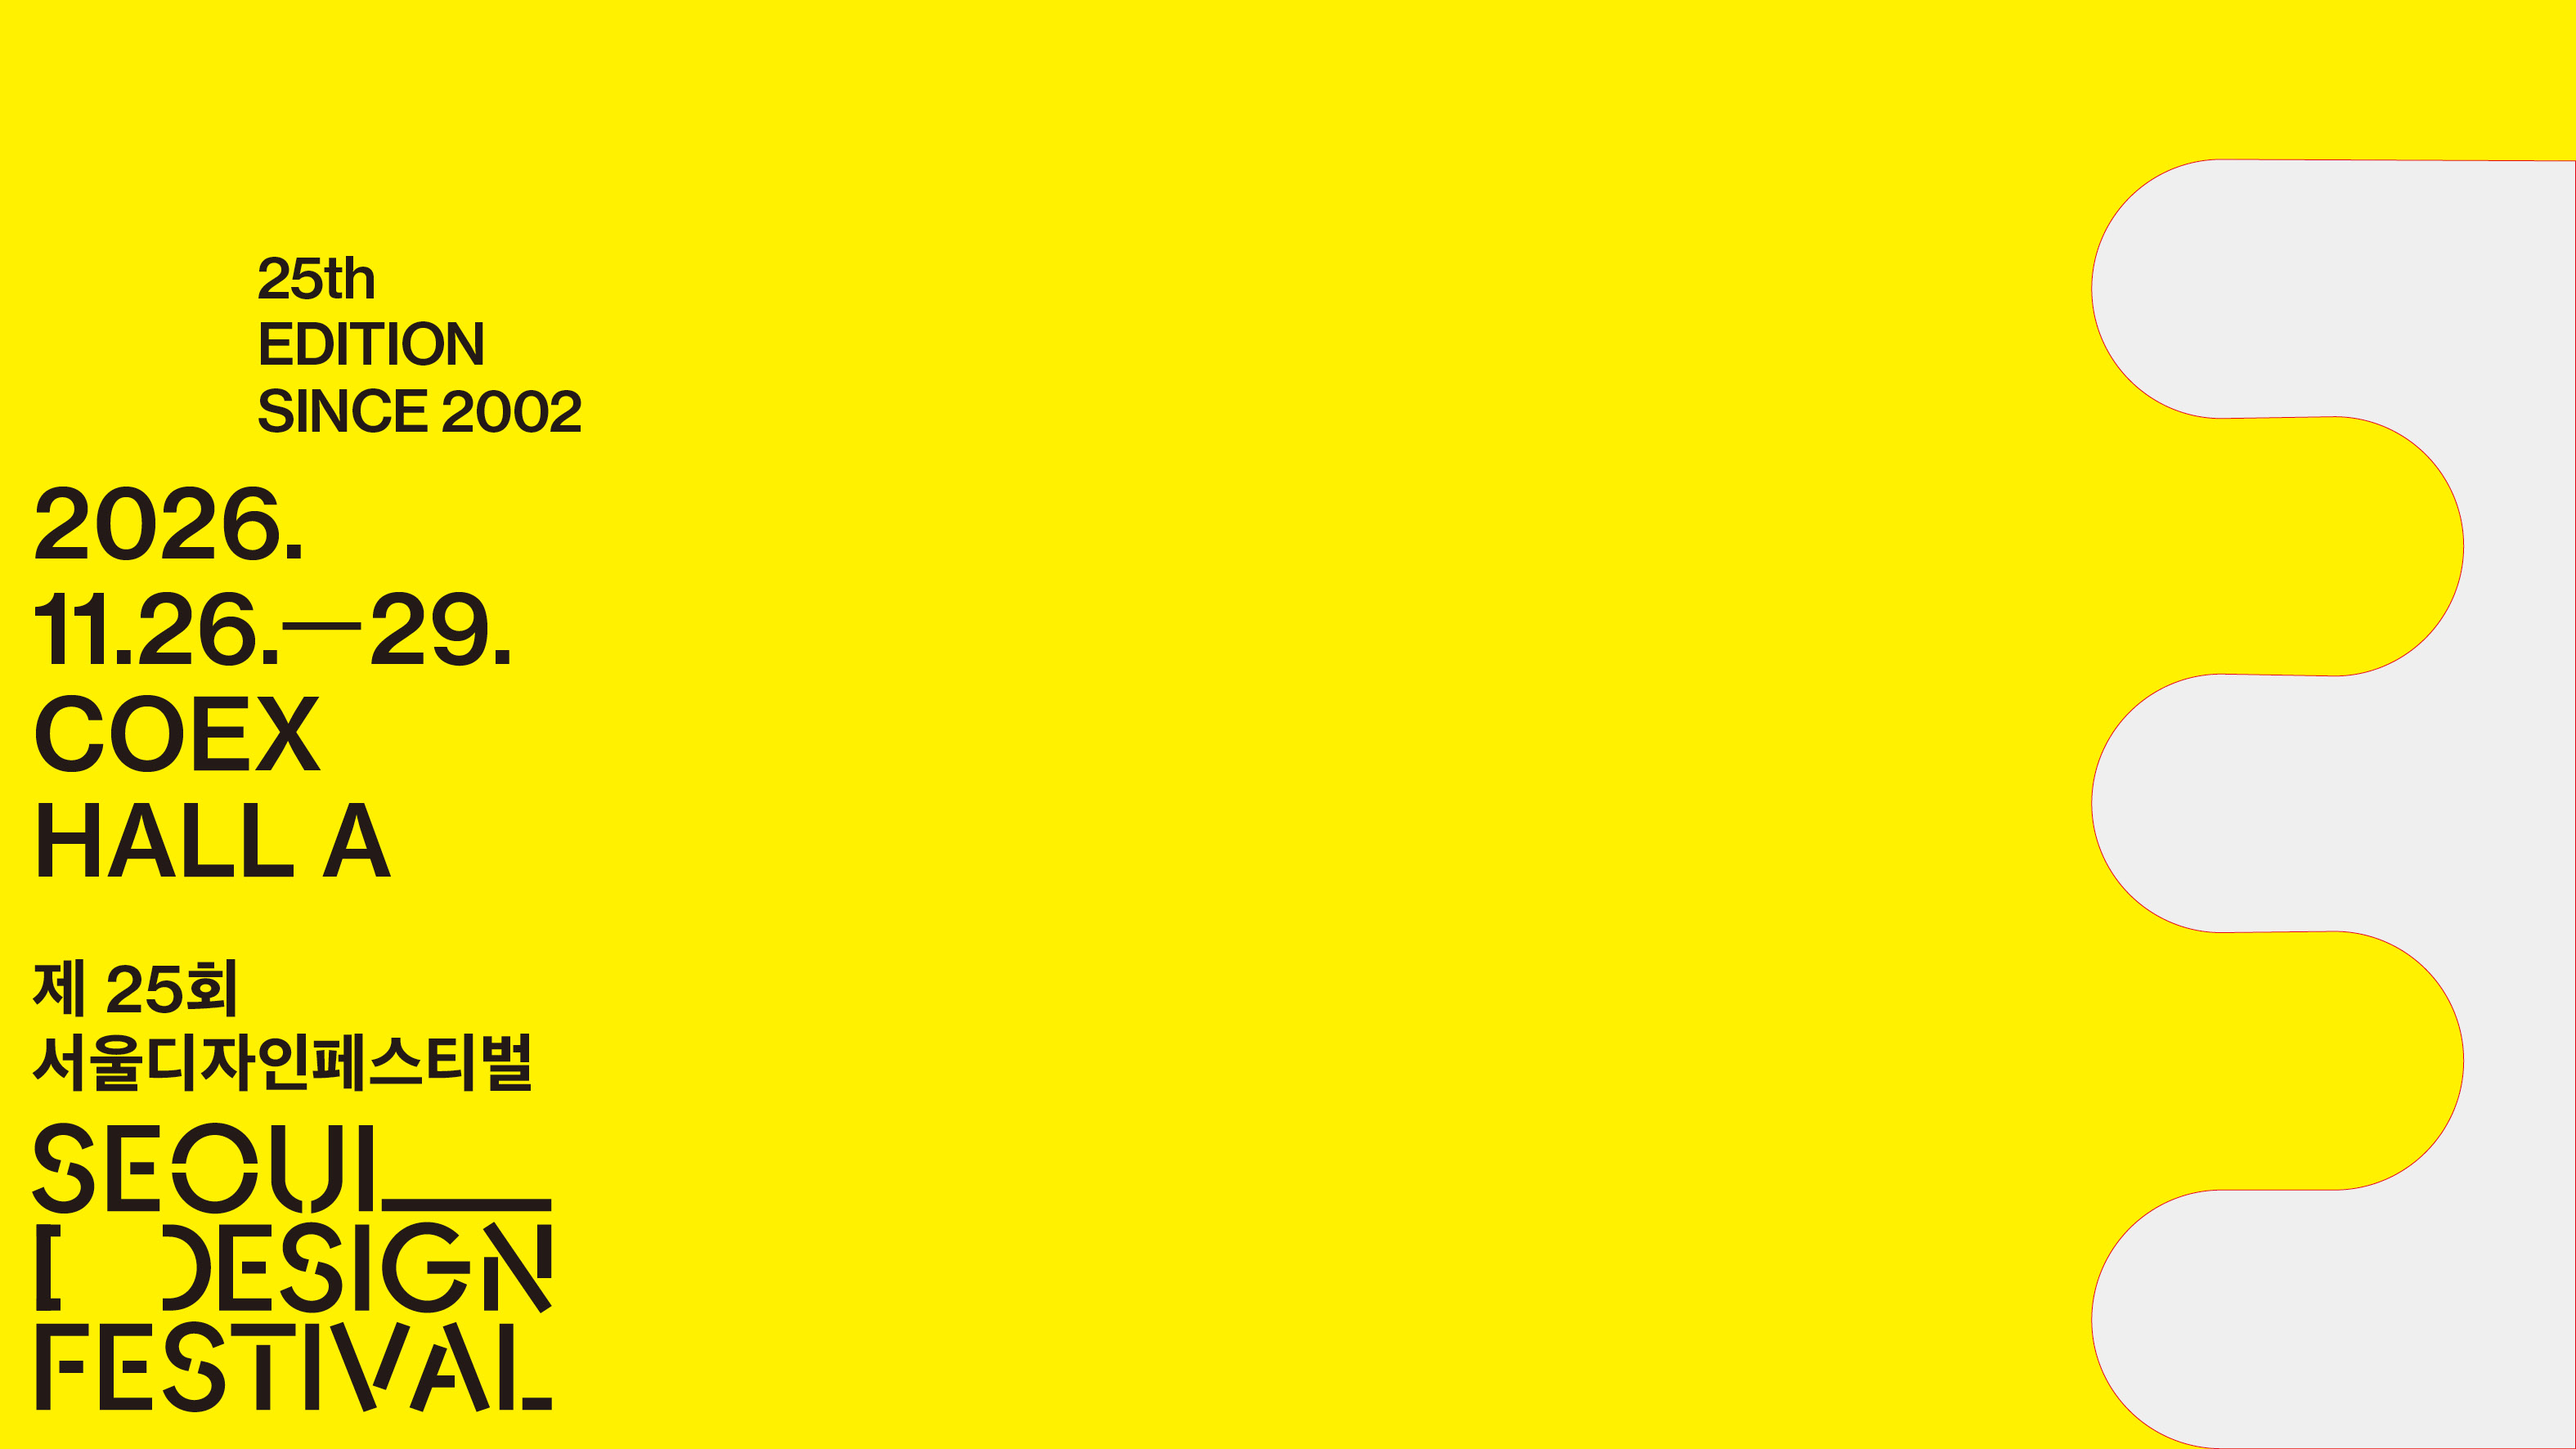
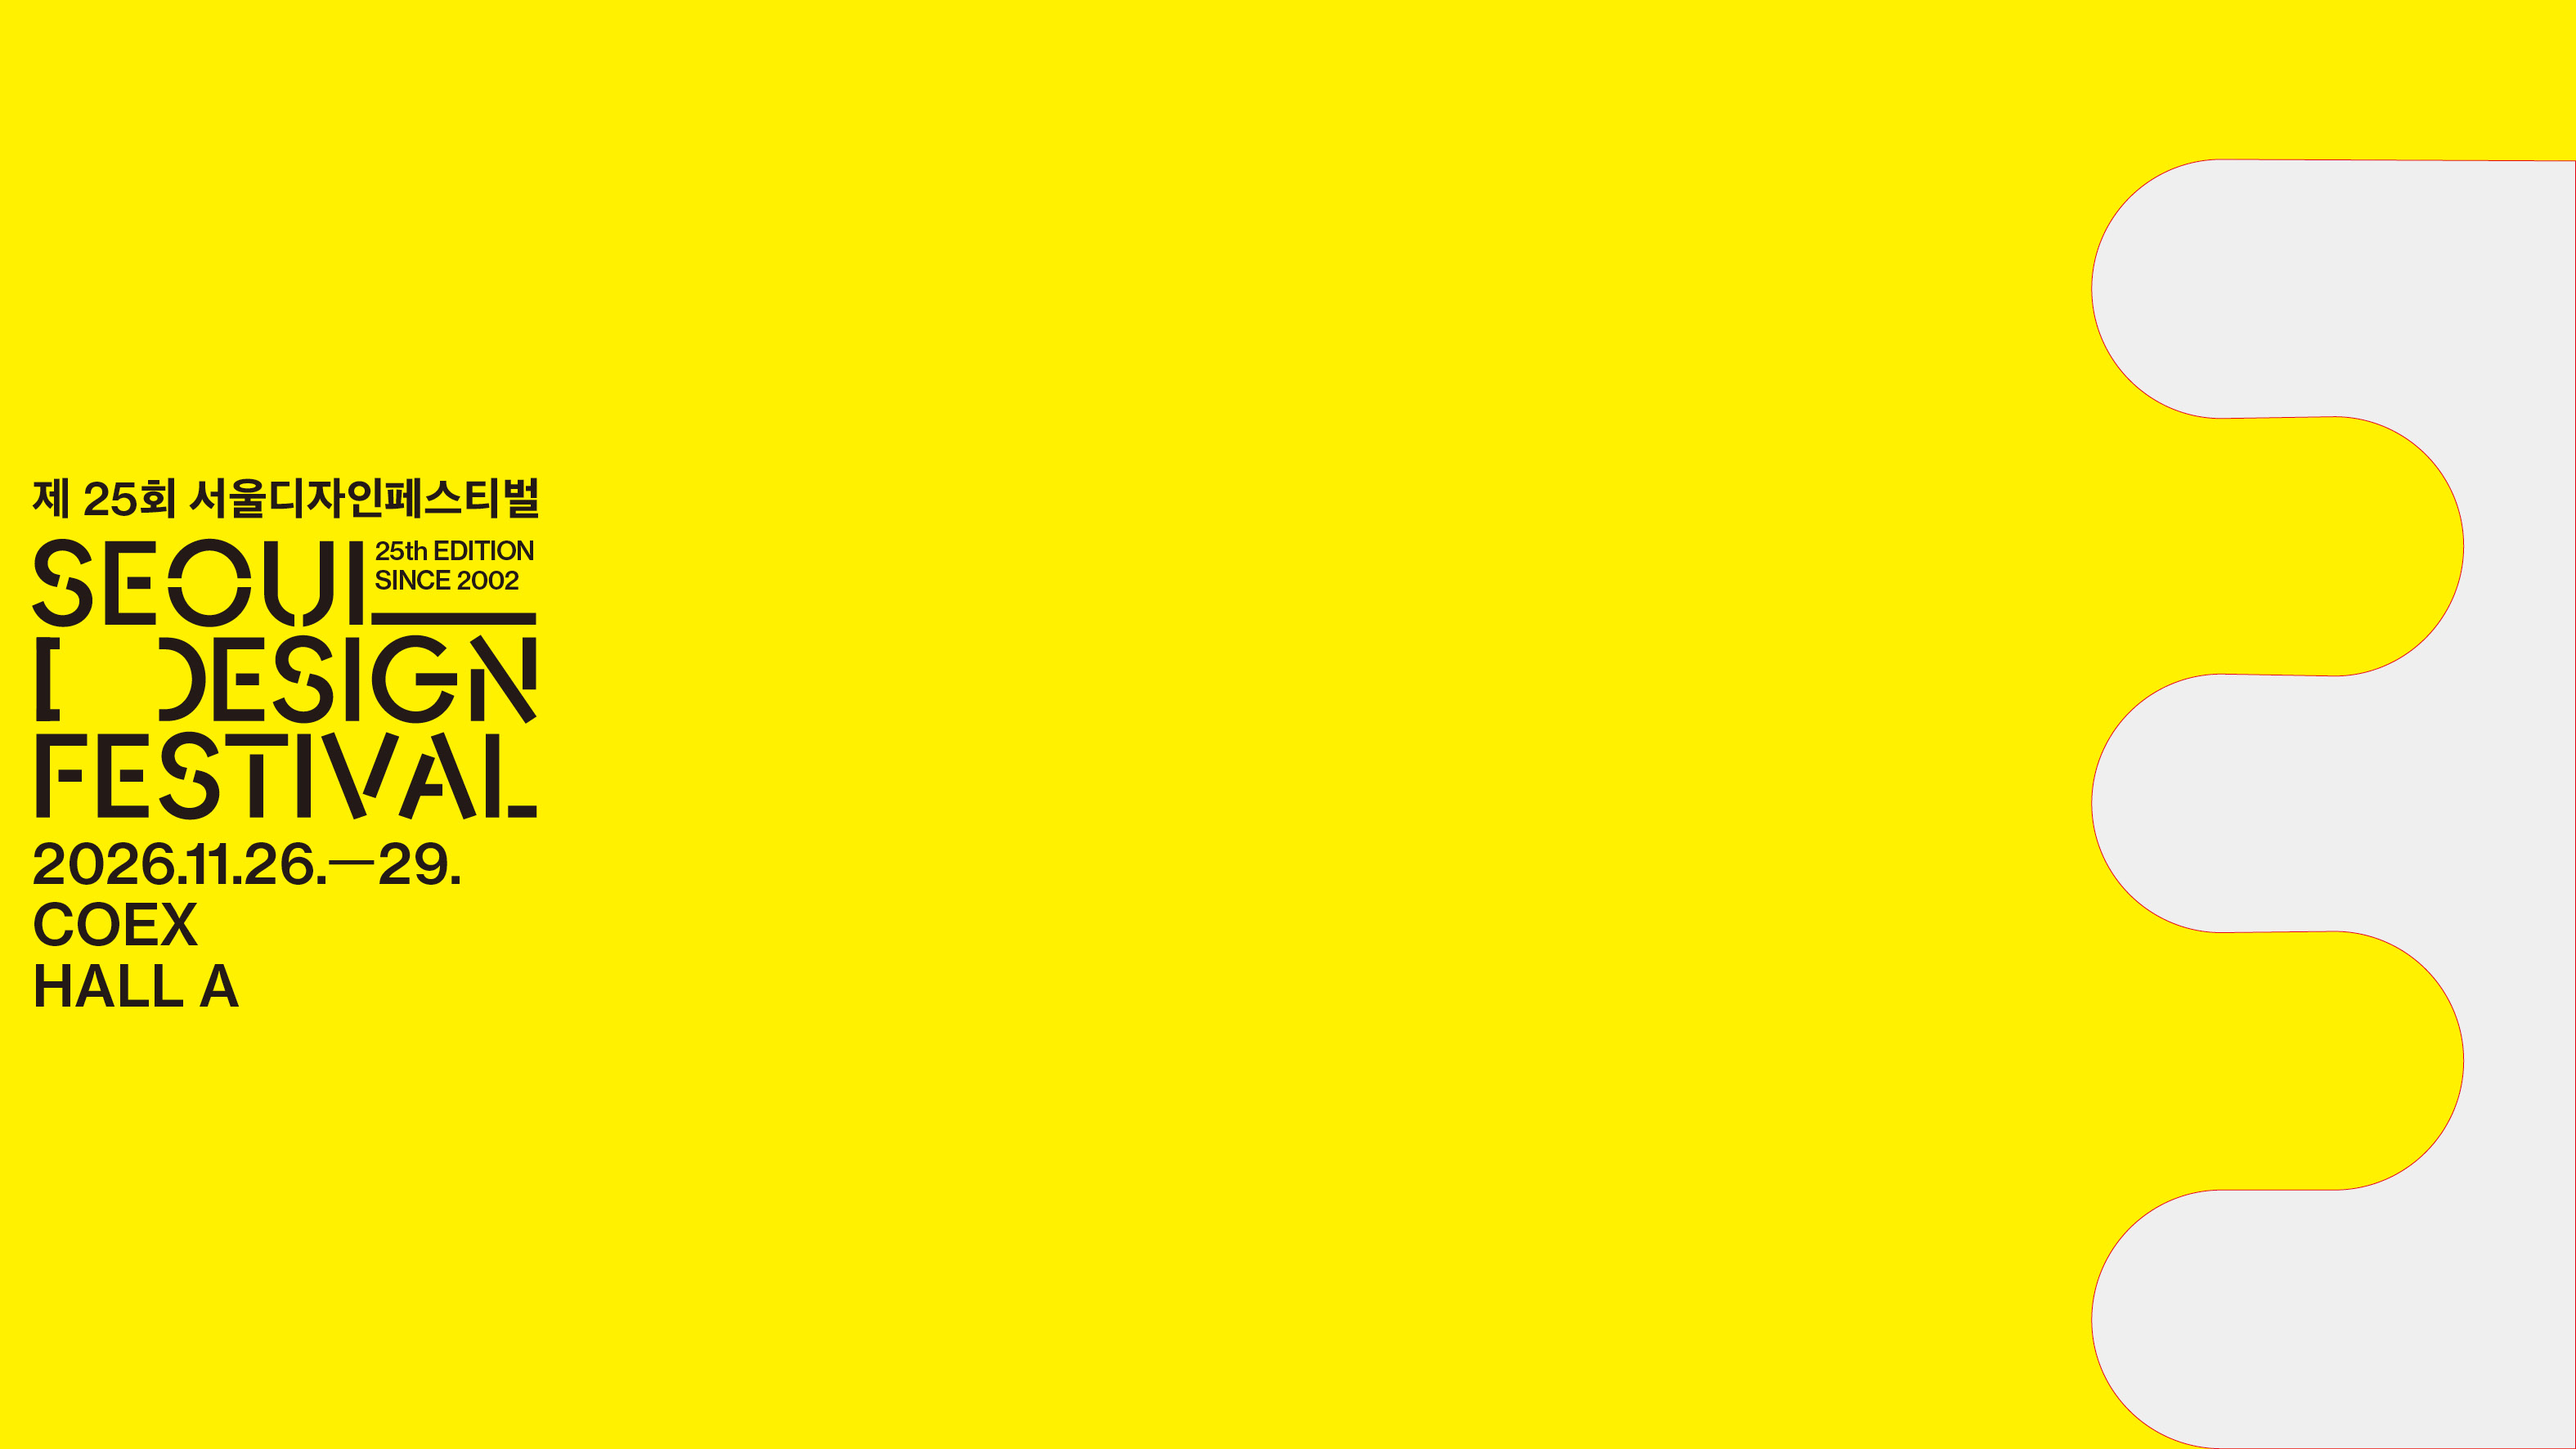
인디자인 최신본 반영: D 메인 정면벽

Changed region(s): [[0.0, 0.1552, 0.2178, 0.9932]]

diff --git a/index.html b/index.html
@@ -326,7 +326,7 @@ html { -webkit-text-size-adjust: 100%; }
   /* ---------- panel list UI ---------- */
   var list = $('panels');
   PANELS.forEach(function (p) {
-    p.defUrl = 'panels/' + p.id + '.jpg?v=261119d';
+    p.defUrl = 'panels/' + p.id + '.jpg?v=261119e';
     var li = document.createElement('li'); li.id = 'row-' + p.id;
     li.innerHTML =
       '<button class="thumb" type="button" aria-label="' + p.id + ' ' + p.name + ' 이미지 올리기"><img alt=""></button>' +
